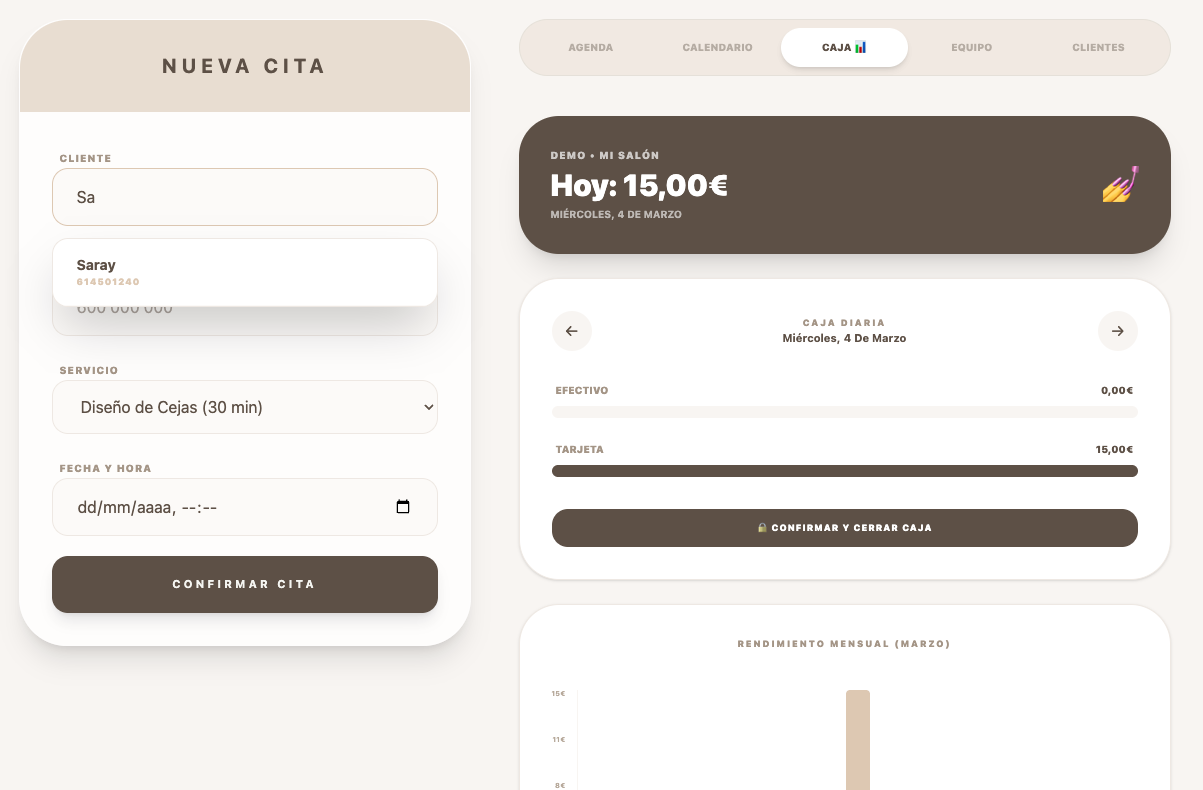
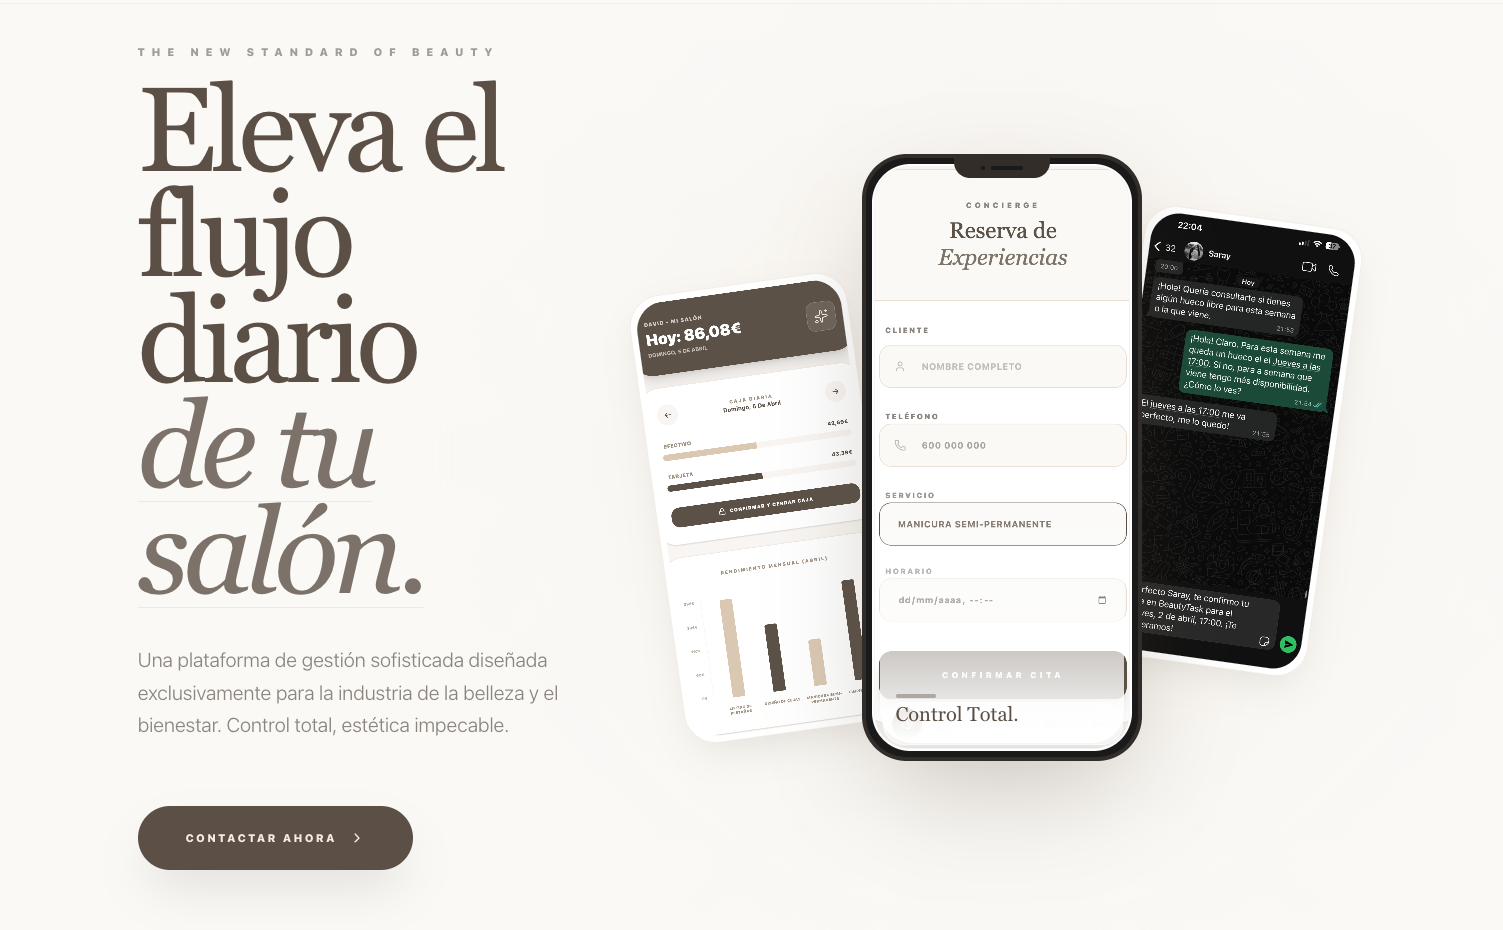
feat: add updated project images

diff --git a/src/data/webData.js b/src/data/webData.js
@@ -26,8 +26,8 @@ const DATA = {
       id: 2,
       key: "project2",
       stack: {
-        backend: ["Node.js", "Express"],
-        frontend: ["React", "Chart.js", "Tailwind"],
+        backend: ["Node.js", "Prisma", "PostgreSQL", "FFmpeg", "AI APIs"],
+        frontend: ["Next.js", "React", "TypeScript", "Tailwind CSS"],
       },
       github: "https://github.com/dims1993/project-two",
       demo: "https://demo-link.com",
@@ -36,7 +36,17 @@ const DATA = {
   ],
   skills: {
     frontend: ["React", "JavaScript (ES6+)", "Tailwind CSS", "HTML5/CSS3"],
-    tools: ["Git", "Vite", "Figma", "Postman"],
+    tools: [
+      "Git",
+      "GitHub",
+      "REST APIs",
+      "FFmpeg",
+      "AI APIS",
+      "Vite",
+      "Figma",
+      "Postman",
+      "Docker",
+    ],
   },
 };
 

diff --git a/src/sections/Stack.jsx b/src/sections/Stack.jsx
@@ -37,7 +37,7 @@ const Stack = () => {
             Core Stack
           </span>
           <div className="flex flex-wrap gap-4">
-            {["Python", "Django", "PostgreSQL", "Node.js"].map((skill) => (
+            {["Node.js", "Express", "TypeScript", "PostgreSQL"].map((skill) => (
               <div
                 key={skill}
                 className="px-8 py-4 bg-white/[0.03] border border-[var(--accent-silver)]/20 rounded-2xl hover:scale-105 hover:border-[var(--accent-silver)]/50 transition-all duration-300 group transform-gpu"

diff --git a/src/sections/Hero.jsx b/src/sections/Hero.jsx
@@ -154,7 +154,7 @@ function Hero() {
   return (
     <section
       id="hero"
-      className="relative min-h-screen w-full bg-[#050505] flex flex-col justify-center items-center overflow-hidden px-6 text-center"
+      className="relative min-h-screen w-full bg-[#000000] flex flex-col justify-center items-center overflow-hidden px-6 text-center"
     >
       <HexagonBackground />
 

diff --git a/src/app/layout.jsx b/src/app/layout.jsx
@@ -2,12 +2,8 @@
 
 function Layout({ children }) {
   return (
-    <div className="min-h-screen bg-[#0B0B0F] text-white">
-      <div className="max-w-6xl mx-auto px-6">
-        {children}
-      </div>
-    </div>
-  )
+    <div className="min-h-screen bg-[#000000] text-white">{children}</div>
+  );
 }
 
-export default Layout
+export default Layout;

diff --git a/README.md b/README.md
@@ -1,10 +1,10 @@
- # Personal Portfolio
+# Personal Portfolio
 
 This is my professional portfolio website, designed to showcase my journey as a developer, my technical skills, and the projects I've built. It is a fast, responsive, and SEO-optimized web application.
 
 ## Live Demo
 
-You can explore the live version here: [portfolio-dims1993.vercel.app](https://portfolio-dims1993s-projects.vercel.app)
+You can explore the live version here: git clone https://github.com/dims1993/portfolio.git
 
 ---
 
